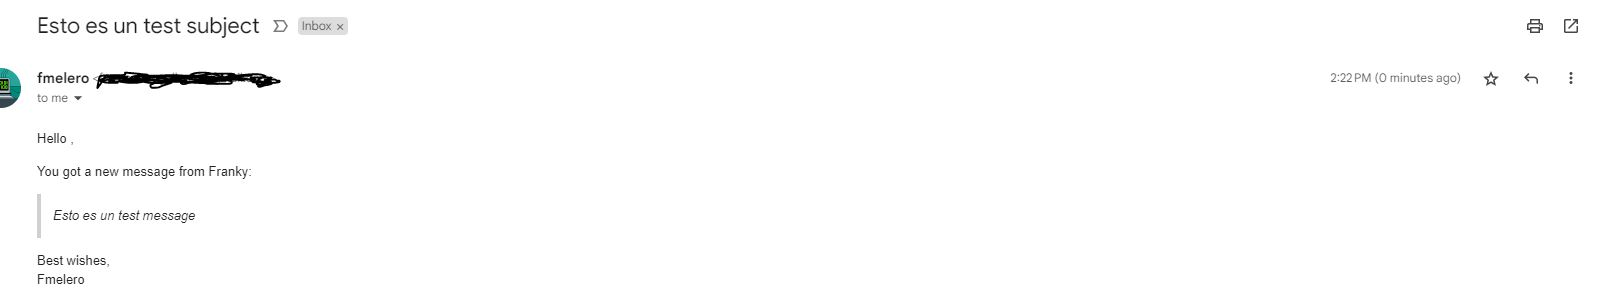
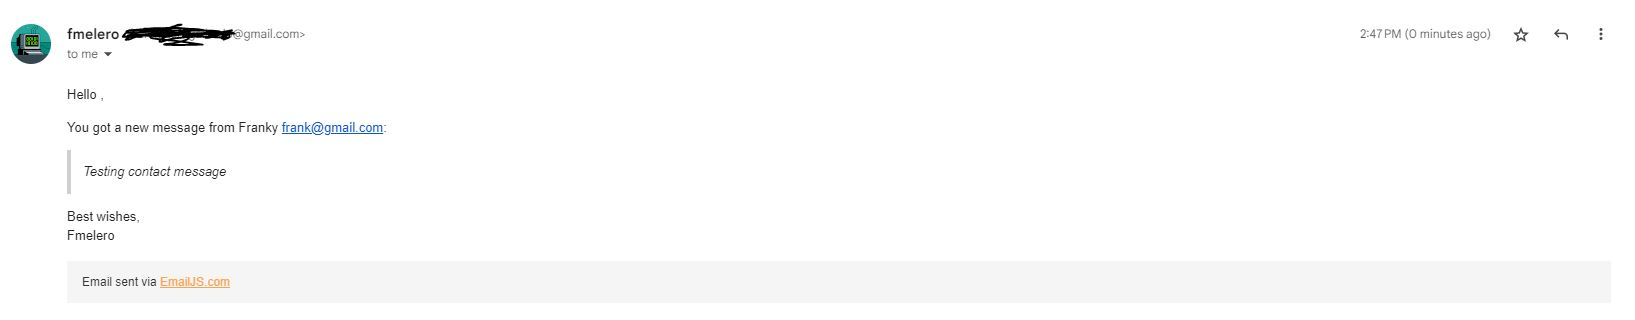
Día 18 Readme actualizado

diff --git a/README.md b/README.md
@@ -10,7 +10,59 @@ El siguiente paso va a ser utilizar un servicio externo para el envío de e-mail
 
 Por otro lado, crearé una API sencilla en Express para gestionar las citas, así como una pequeña interfaz. Adicionalmente, integraré una tabla de usuarios que están registrados en el newsletter. 
 
-Empezamos con el mail:
+Empezamos con el formulario de contacto, como he comentado anteriormente enviaré un e-mail utilizando un servicio externo, en este caso email-js. Primero realizamos una configuración previa desde la página de emailjs, añadiendo el servicio de gmail, así como una plantilla con los datos exactos que vamos a utilizar en el formulario. Una vez configurado, instalamos el paquete emailjs, para luego adecuar la página de contacto a lo que queremos. 
+
+En este caso, como estaba previamente programado el formulario, tan solo tenemos que preocuparnos de la lógica: 
+
+```
+
+<script setup>
+import emailjs from 'emailjs-com';
+const sendEmail = () => {
+
+  const name = document.getElementById('name').value;
+  const email = document.getElementById('email').value;
+  const subject = document.getElementById('subject').value;
+  const message = document.getElementById('message').value;
+
+  const emailParams = {
+    from_name: name,
+    from_email: email,
+    subject: subject,
+    message: message,
+  };
+
+  emailjs.send('ID_DEL_SERVICIO', 'ID_TEMPLATE', emailParams, 'USER_ID')
+    .then((response) => {
+      console.log('Mensaje enviado:', response);
+      alert("Mensaje enviado");
+      window.location.reload();
+
+    })
+    .catch((error) => {
+      console.error('Error al enviar el correo electrónico:', error);
+      alert("Error, no se ha podido enviar el mensaje.");
+      window.location.reload();
+    });
+};
+</script>
+
+```
+En este caso enviamos una petición a la API de emailjs mediante promesas. Tras asignar la funcion sendEmail con el @click en el botón de submit, procedemos a hacer las primeras pruebas:
+
+![Snap 24 plantilla SPA](/imagenes-readme/captura24.JPG)
+
+Finalmente, tras un par de tests consigo que se envíe correctamente (con otros datos que los de la captura anterior):
+
+![Snap 25 plantilla SPA](/imagenes-readme/captura25.JPG)
+
+Ya estoy listo para pasar con la newsletter. Para ello voy a crear una pequeña API en express, y asignarle el endpoint correspondiente para la newsletter. De la misma forma que haré para gestionar las reservas. Aunque por hoy, simplemente plantearé la API, configuraré los aspectos básicos y la desplegaré para poder hacer pruebas con ella. 
+
+Mañana os mostraré el resultado del trabajo que tengo planeado realizar entre esta tarde, hasta el final de la jornada de mañana.  
+
+Si has leído esto, muchas gracias por seguir mi progreso. 
+
+¡Hasta el próximo día!
 
 
 ## Reto de programación, día 17/100. 
